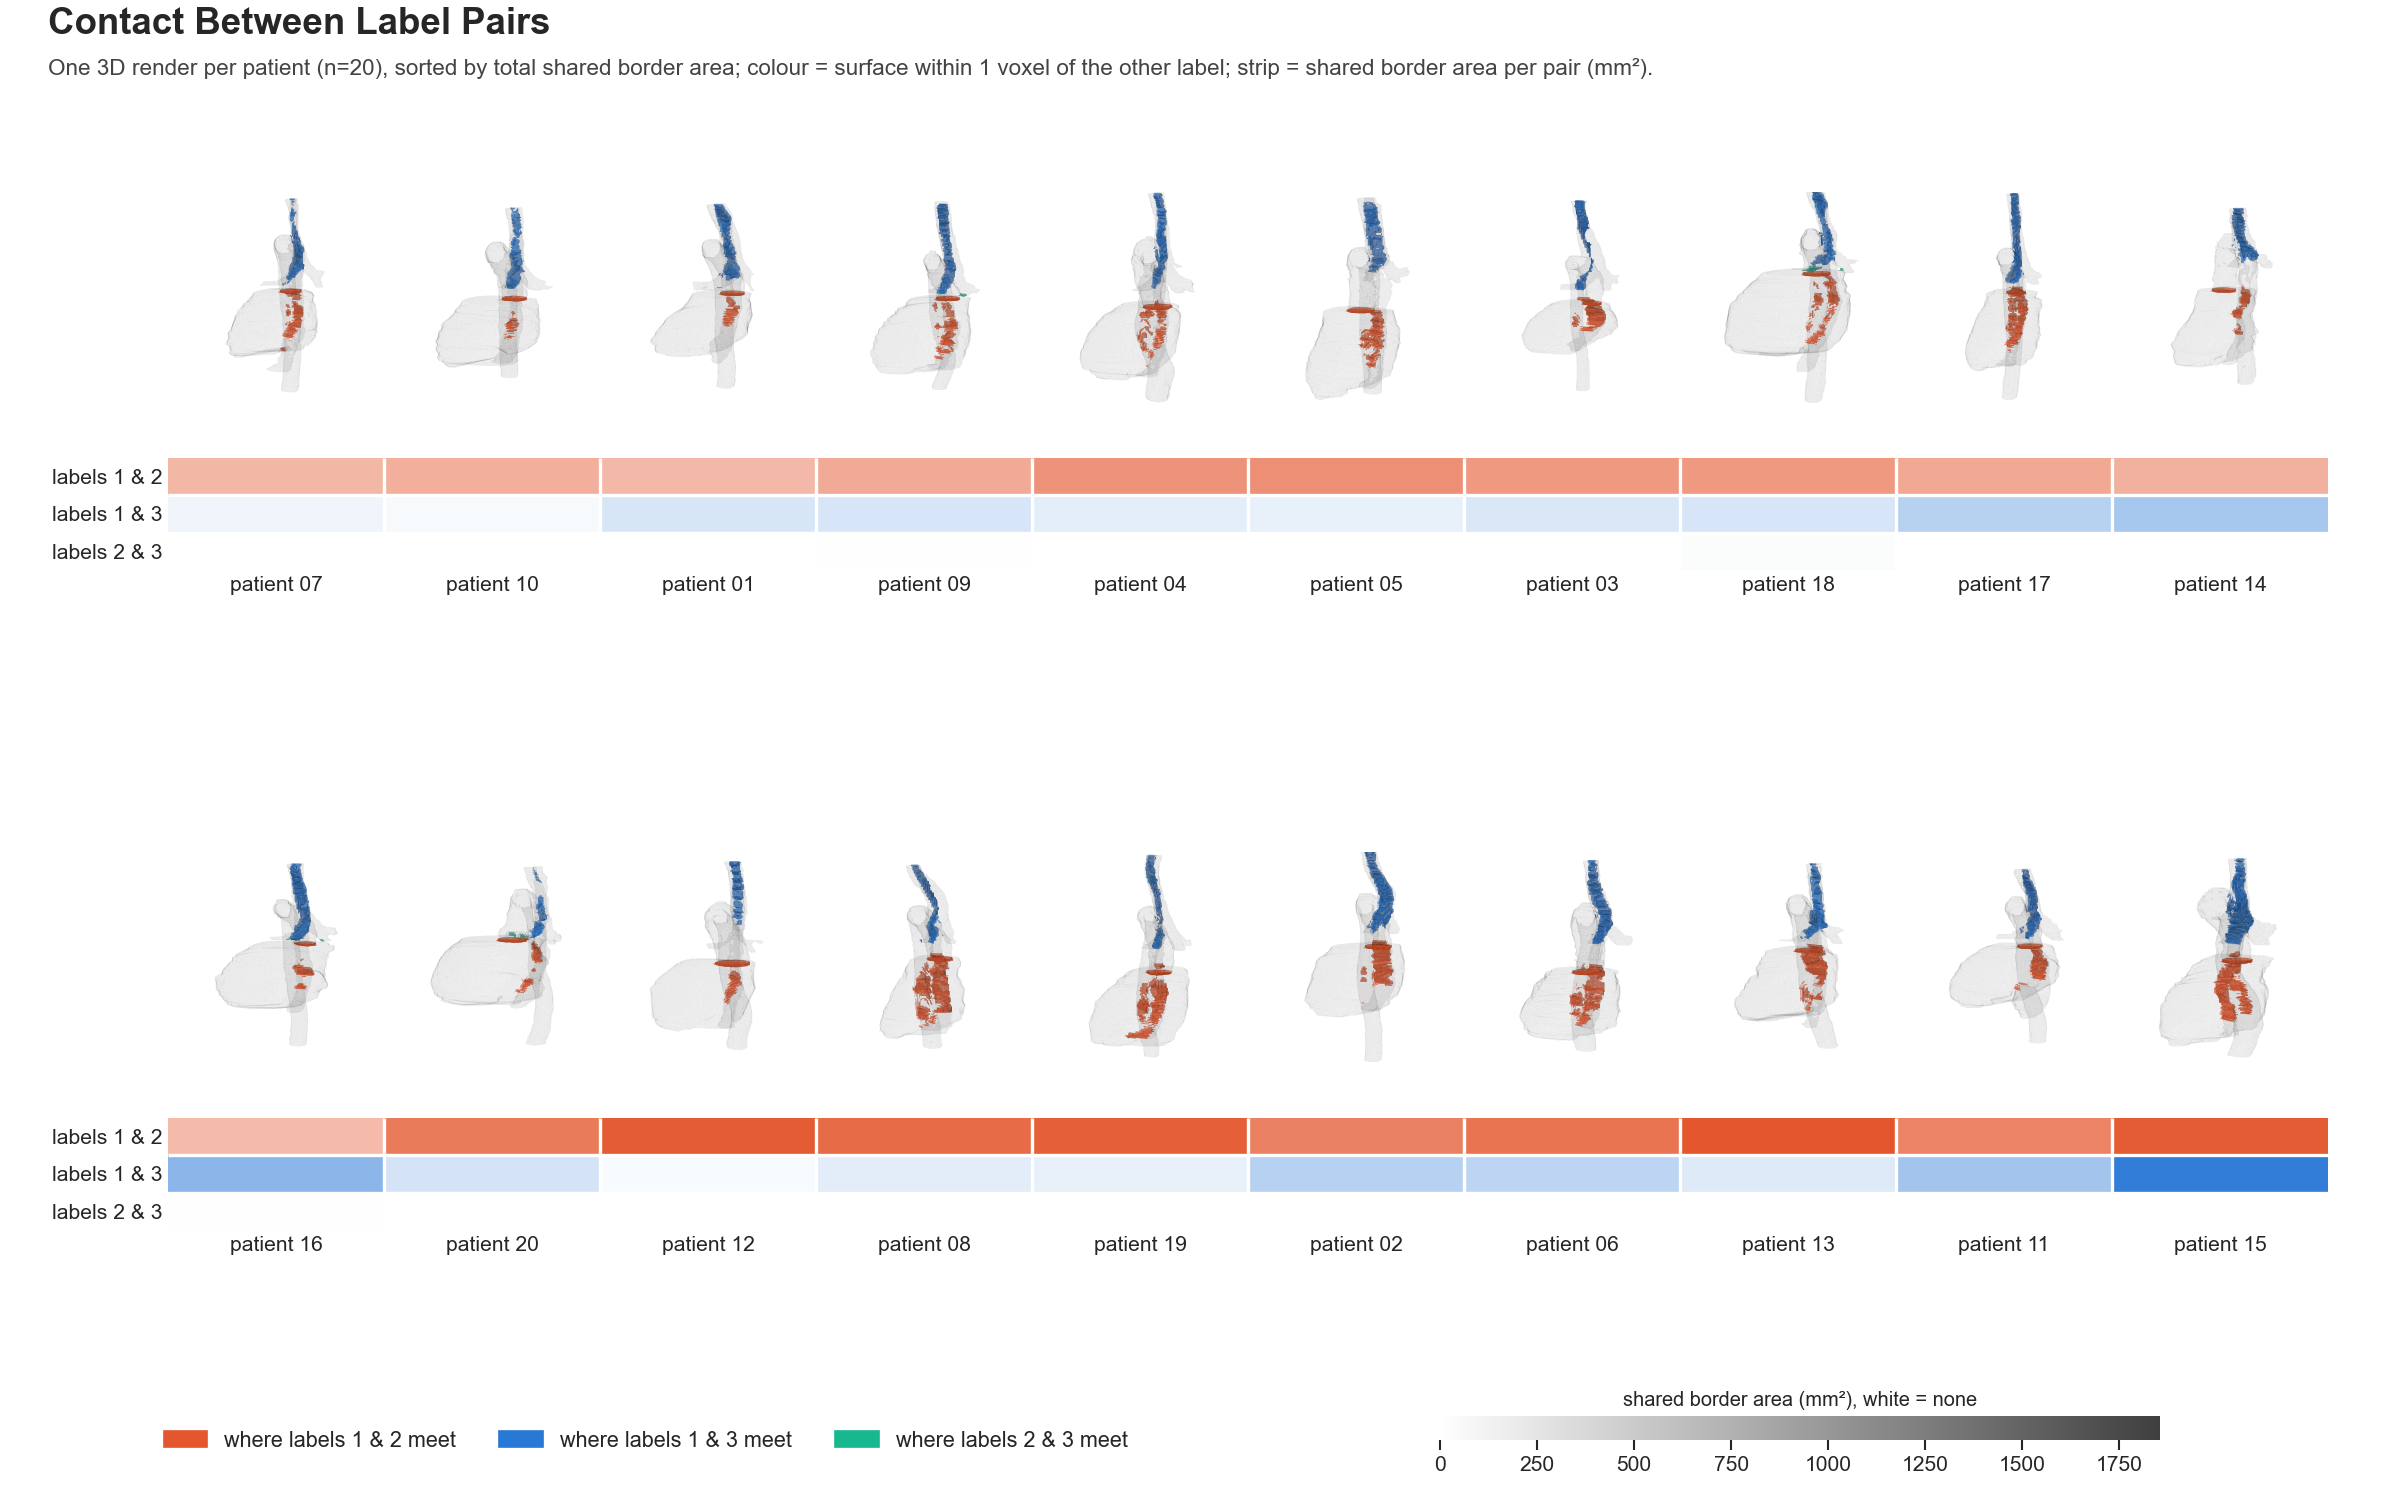
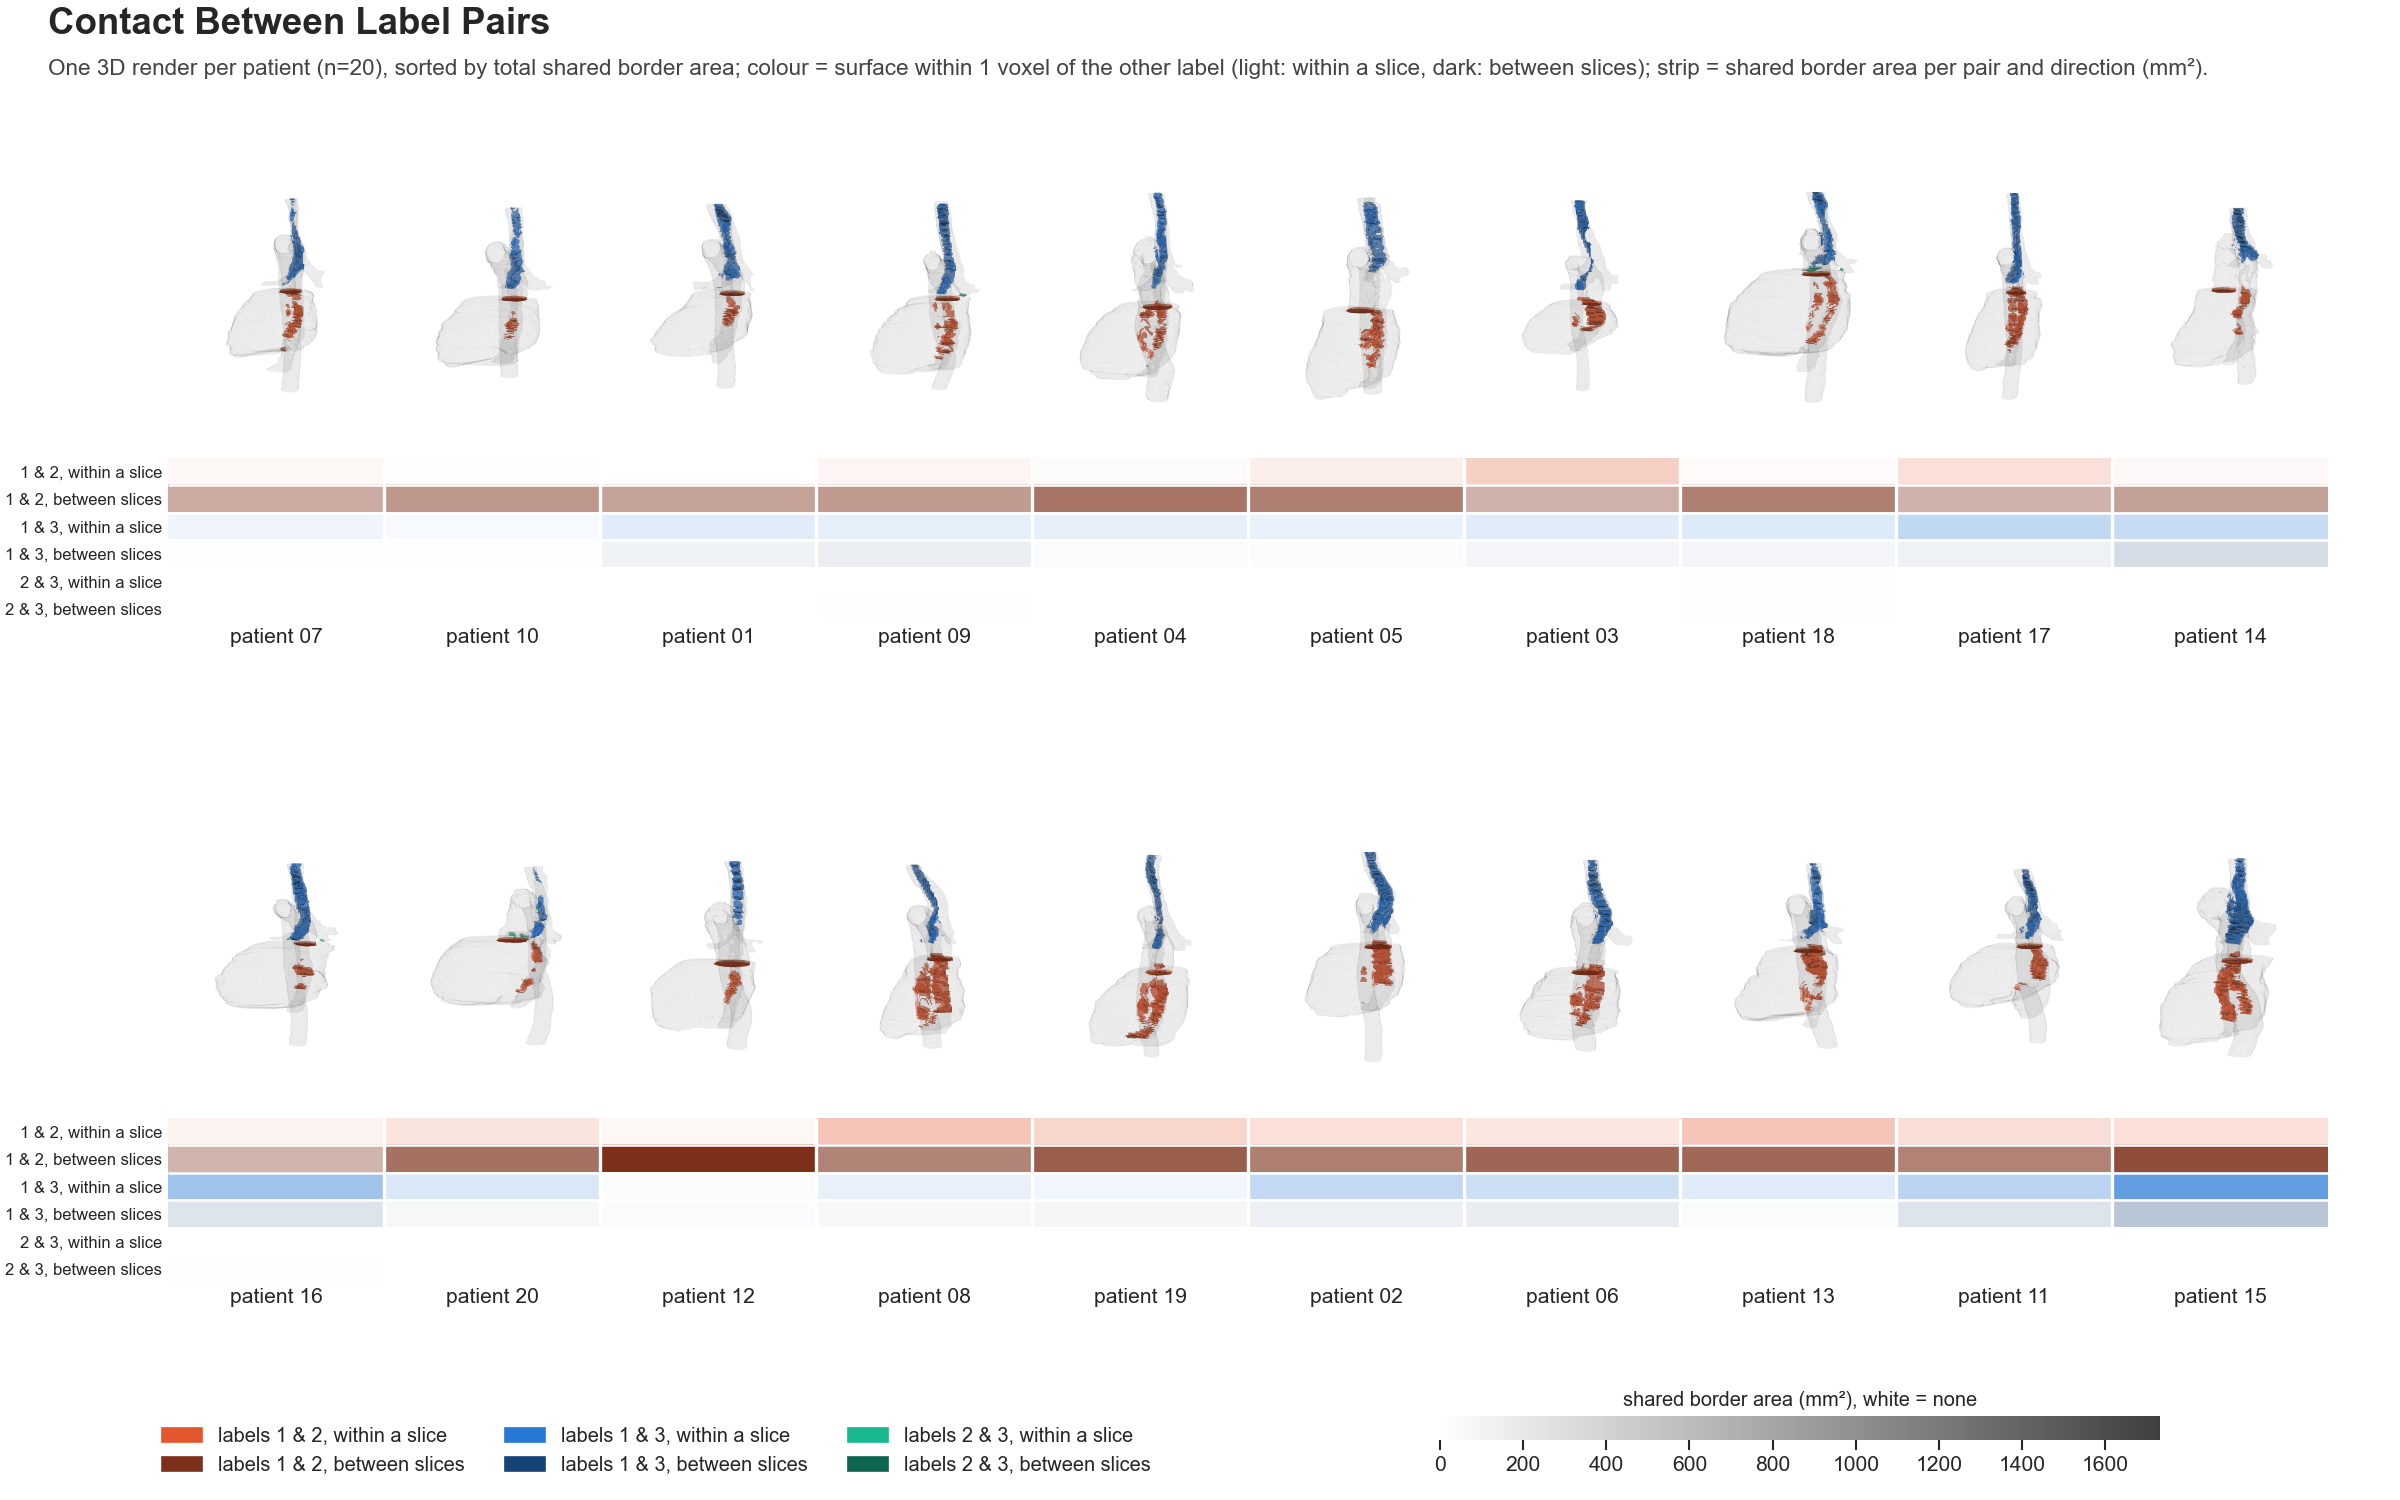
Split label pair contact into within-slice and between-slice

diff --git a/dataset_analysis/profile_figures/f13_label_pairs.py b/dataset_analysis/profile_figures/f13_label_pairs.py
@@ -5,8 +5,12 @@ a strip under each row of shapes giving each pair's shared border area.
 
 Each patient's labels are drawn as faint grey outlines at the same physical
 scale; the part of a label's surface that lies within one voxel of another
-label is painted in that pair's colour. Patients are sorted by total shared
-border area.
+label is painted in that pair's colour, light where the surface faces sideways
+(contact within a slice) and dark where it faces up or down (contact between
+neighbouring slices). The strips split the exact shared face area the same way:
+faces between left-right or front-back neighbours are within a slice, faces
+between voxels on neighbouring slices are between slices. Patients are sorted
+by total shared border area.
 
 Reads label_pairs.csv written by tools/dataset_profile.py and the label masks
 from the data directory.
@@ -41,6 +45,9 @@ PAIRS = [(1, 2), (1, 3), (2, 3)]
 PAIR_COLORS = {(1, 2): "#E4572E", (1, 3): "#2878D6", (2, 3): "#17B890"}
 MESH_MM = 2.0
 HALF_WIDTH_MM, HALF_HEIGHT_MM = 90, 170  # shared 3D box for every patient
+DIRECTIONS = ("within a slice", "between slices")
+BETWEEN_SHADE = 0.55  # between-slice contact is drawn as the pair colour darkened by this factor
+FACING_UP = 0.7  # |normal z| above this counts a surface patch as facing the neighbouring slice
 SURFACE_RGBA = (0.6, 0.6, 0.6, 0.06)  # faint grey so only the contact patches stand out
 LIGHT = np.array([-0.4, -0.6, 0.7]) / np.linalg.norm([-0.4, -0.6, 0.7])
 
@@ -64,6 +71,33 @@ def label_grids(seg: np.ndarray, zooms: np.ndarray, labels: list[int], step_mm: 
     return {lab: np.pad(zoom((crop == lab).astype(np.float32), factors, order=1) > 0.5, 1) for lab in labels}
 
 
+def shared_area_by_direction(a: np.ndarray, b: np.ndarray, zooms: np.ndarray) -> dict[str, float]:
+    """Shared face area between two label masks, split into within-slice and between-slice faces.
+
+    Args:
+        a: Boolean mask of the first label, shape (x, y, z).
+        b: Boolean mask of the second label, same shape.
+        zooms: Voxel spacing (x, y, z) in mm.
+
+    Returns:
+        {"within a slice": area of faces between x or y neighbours (mm²),
+         "between slices": area of faces between z neighbours (mm²)}.
+    """
+    face_area = [zooms[1] * zooms[2], zooms[0] * zooms[2], zooms[0] * zooms[1]]
+    per_axis = []
+    for axis in range(3):
+        head, tail = [slice(None)] * 3, [slice(None)] * 3
+        head[axis], tail[axis] = slice(None, -1), slice(1, None)
+        head, tail = tuple(head), tuple(tail)
+        per_axis.append(face_area[axis] * int((a[head] & b[tail]).sum() + (b[head] & a[tail]).sum()))
+    return {DIRECTIONS[0]: per_axis[0] + per_axis[1], DIRECTIONS[1]: per_axis[2]}
+
+
+def _shade(pair: tuple[int, int], direction: str) -> np.ndarray:
+    base = np.array(to_rgb(PAIR_COLORS[pair]))
+    return base * BETWEEN_SHADE if direction == DIRECTIONS[1] else base
+
+
 def _draw_patient(ax, grids: dict[int, np.ndarray]) -> None:
     near_other = {lab: distance_transform_edt(~g, sampling=MESH_MM) for lab, g in grids.items()}
     centre = np.array(next(iter(grids.values())).shape) * MESH_MM / 2
@@ -74,15 +108,17 @@ def _draw_patient(ax, grids: dict[int, np.ndarray]) -> None:
         tri = verts[faces]
         rgba = np.tile(SURFACE_RGBA, (len(faces), 1))
         cell = np.clip((tri.mean(axis=1) / MESH_MM).astype(int), 0, np.array(grid.shape) - 1)
-        for pair in PAIRS:
-            if lab in pair:
-                other = pair[1] if lab == pair[0] else pair[0]
-                touching = near_other[other][cell[:, 0], cell[:, 1], cell[:, 2]] <= 1.5 * MESH_MM
-                rgba[touching] = np.r_[to_rgb(PAIR_COLORS[pair]), 1.0]
         tri = tri - centre
         tri[..., 0] *= -1  # array x runs towards patient left; flip so patient left is on the viewer's right
         normals = np.cross(tri[:, 1] - tri[:, 0], tri[:, 2] - tri[:, 0])
         normals /= np.linalg.norm(normals, axis=1, keepdims=True) + 1e-9
+        facing_up = np.abs(normals[:, 2]) > FACING_UP
+        for pair in PAIRS:
+            if lab in pair:
+                other = pair[1] if lab == pair[0] else pair[0]
+                touching = near_other[other][cell[:, 0], cell[:, 1], cell[:, 2]] <= 1.5 * MESH_MM
+                for direction, mask in zip(DIRECTIONS, (~facing_up, facing_up)):
+                    rgba[touching & mask] = np.r_[_shade(pair, direction), 1.0]
         rgba[:, :3] *= (0.5 + 0.5 * np.abs(normals @ LIGHT))[:, None]
         ax.add_collection3d(Poly3DCollection(tri, facecolors=rgba, linewidths=0))
     ax.set_xlim(-HALF_WIDTH_MM, HALF_WIDTH_MM)
@@ -103,13 +139,14 @@ def main():
     pairs = pairs[pairs["label_a"].isin(LABELS) & pairs["label_b"].isin(LABELS)]
     order = pairs.groupby("patient")["shared_face_area_mm2"].sum().sort_values().index
 
-    area = pairs.pivot_table(index="patient", columns=["label_a", "label_b"], values="shared_face_area_mm2")
-    area_max = float(area.to_numpy().max())
+    rows = [(pair, direction) for pair in PAIRS for direction in DIRECTIONS]
+    area = {}
 
     apply_ticks_style()
     fig = plt.figure(figsize=(20, 12.5))
     col_w, row_h, left = 0.09, 0.4, 0.07
-    strip_h = 0.075
+    strip_h = 0.11
+    strips = []
     for r in range(2):
         top = 1.0 - r * 0.44
         row_patients = order[r * 10 : (r + 1) * 10]
@@ -118,18 +155,24 @@ def main():
             seg, zooms = np.asarray(img.dataobj), np.array(img.header.get_zooms()[:3], dtype=float)
             ax = fig.add_axes([left + c * col_w, top - row_h, col_w, row_h], projection="3d")
             _draw_patient(ax, label_grids(seg, zooms, LABELS, MESH_MM))
+            for a, b in PAIRS:
+                split = shared_area_by_direction(seg == a, seg == b, zooms)
+                for direction in DIRECTIONS:
+                    area[(patient, (a, b), direction)] = split[direction]
+        strips.append((top, row_patients))
+    area_max = max(area.values())
+    for top, row_patients in strips:
         strip = fig.add_axes([left, top - row_h - strip_h + 0.095, col_w * len(row_patients), strip_h])
-        cells = np.ones((len(PAIRS), len(row_patients), 3))
-        for i, pair in enumerate(PAIRS):
-            base = np.array(to_rgb(PAIR_COLORS[pair]))
-            share = area.loc[row_patients, pair].to_numpy() / area_max
-            cells[i] = 1 - share[:, None] * (1 - base)
-        strip.imshow(cells, aspect="auto", extent=(0, len(row_patients), len(PAIRS), 0))
+        cells = np.ones((len(rows), len(row_patients), 3))
+        for i, (pair, direction) in enumerate(rows):
+            share = np.array([area[(p, pair, direction)] for p in row_patients]) / area_max
+            cells[i] = 1 - share[:, None] * (1 - _shade(pair, direction))
+        strip.imshow(cells, aspect="auto", extent=(0, len(row_patients), len(rows), 0))
         strip.set_xticks(np.arange(len(row_patients)) + 0.5, [f"patient {p[-2:]}" for p in row_patients])
-        strip.set_yticks(np.arange(len(PAIRS)) + 0.5, [f"labels {a} & {b}" for a, b in PAIRS])
+        strip.set_yticks(np.arange(len(rows)) + 0.5, [f"{a} & {b}, {d}" for (a, b), d in rows], fontsize=10)
         strip.tick_params(length=0)
-        strip.hlines(range(1, len(PAIRS)), 0, len(row_patients), color="white", lw=2)
-        strip.vlines(range(1, len(row_patients)), 0, len(PAIRS), color="white", lw=2)
+        strip.hlines(range(1, len(rows)), 0, len(row_patients), color="white", lw=1.5)
+        strip.vlines(range(1, len(row_patients)), 0, len(rows), color="white", lw=2)
         for spine in strip.spines.values():
             spine.set_visible(False)
 
@@ -140,14 +183,17 @@ def main():
     for spine in key.spines.values():
         spine.set_visible(False)
     handles = [
-        plt.Rectangle((0, 0), 1, 1, color=PAIR_COLORS[p], label=f"where labels {p[0]} & {p[1]} meet") for p in PAIRS
+        plt.Rectangle((0, 0), 1, 1, color=_shade(p, d), label=f"labels {p[0]} & {p[1]}, {d}")
+        for p in PAIRS
+        for d in DIRECTIONS
     ]
-    fig.legend(handles=handles, loc="lower left", bbox_to_anchor=(0.06, 0.02), ncol=3, frameon=False, fontsize=13)
+    fig.legend(handles=handles, loc="lower left", bbox_to_anchor=(0.06, 0.005), ncol=3, frameon=False, fontsize=12)
     header(
         fig,
         "Contact Between Label Pairs",
         f"One 3D render per patient (n={pairs.patient.nunique()}), sorted by total shared border area; "
-        "colour = surface within 1 voxel of the other label; strip = shared border area per pair (mm²).",
+        "colour = surface within 1 voxel of the other label (light: within a slice, dark: between slices); "
+        "strip = shared border area per pair and direction (mm²).",
         0.95,
     )
     out = out_subdir(args.profile_dir, "13_label_pairs") / "label_pairs_contact_3d.png"

diff --git a/dataset_analysis/test_analysis.py b/dataset_analysis/test_analysis.py
@@ -21,7 +21,7 @@ from profile_figures.f05_label_intensity import binned_counts
 from profile_figures.f06_07_label_size_intensity import resample_mask, shades
 from profile_figures.f08_11_slices_and_change import slice_changes
 from profile_figures.f12_connected_components import piece_counts, piece_shares
-from profile_figures.f13_label_pairs import label_grids
+from profile_figures.f13_label_pairs import label_grids, shared_area_by_direction
 from profile_figures.f09_label_bounding_box import box_edges, label_boxes
 from profile_figures.f07_label_shapes_and_sizes import label_boxes as shape_boxes
 from dataset_profile import hist_stats, identical_neighbour_slices, label_row, occupied_box, pair_row, slice_rows
@@ -340,6 +340,17 @@ class ConnectedComponentTests(unittest.TestCase):
         counts = pd.DataFrame({"label": [1, 1, 1, 1], "rule": ["r"] * 4, "pieces": [1, 1, 2, 5]})
         row = piece_shares(counts).loc[(1, "r")]
         self.assertEqual(row.tolist(), [50.0, 25.0, 25.0])
+
+    def test_shared_area_by_direction_matches_pair_row(self):
+        zooms = np.array([1.0, 2.0, 3.0])
+        a = np.zeros((4, 4, 4), dtype=bool)
+        b = np.zeros_like(a)
+        a[1, 1, 1] = True
+        b[2, 1, 1] = True  # x neighbour: face area 2 * 3
+        b[1, 1, 2] = True  # z neighbour: face area 1 * 2
+        split = shared_area_by_direction(a, b, zooms)
+        self.assertEqual(split, {"within a slice": 6.0, "between slices": 2.0})
+        self.assertEqual(sum(split.values()), pair_row(a, b, zooms)["shared_face_area_mm2"])
 
 
 if __name__ == "__main__":
